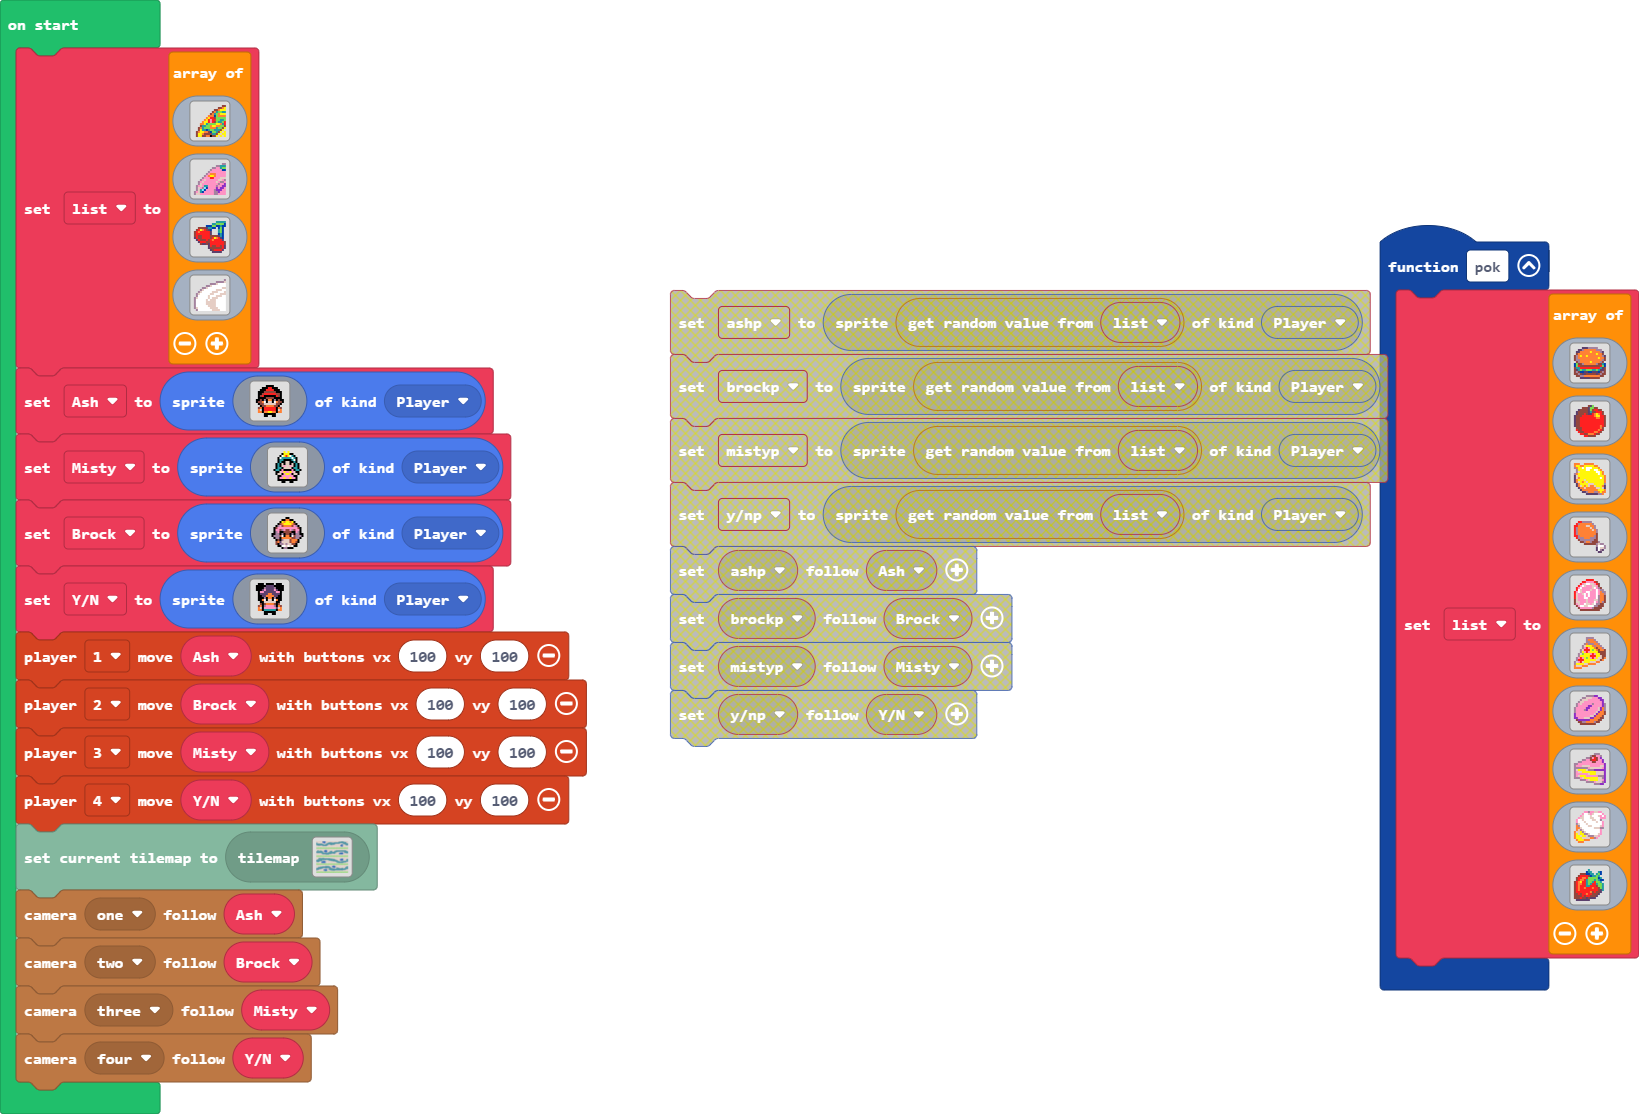
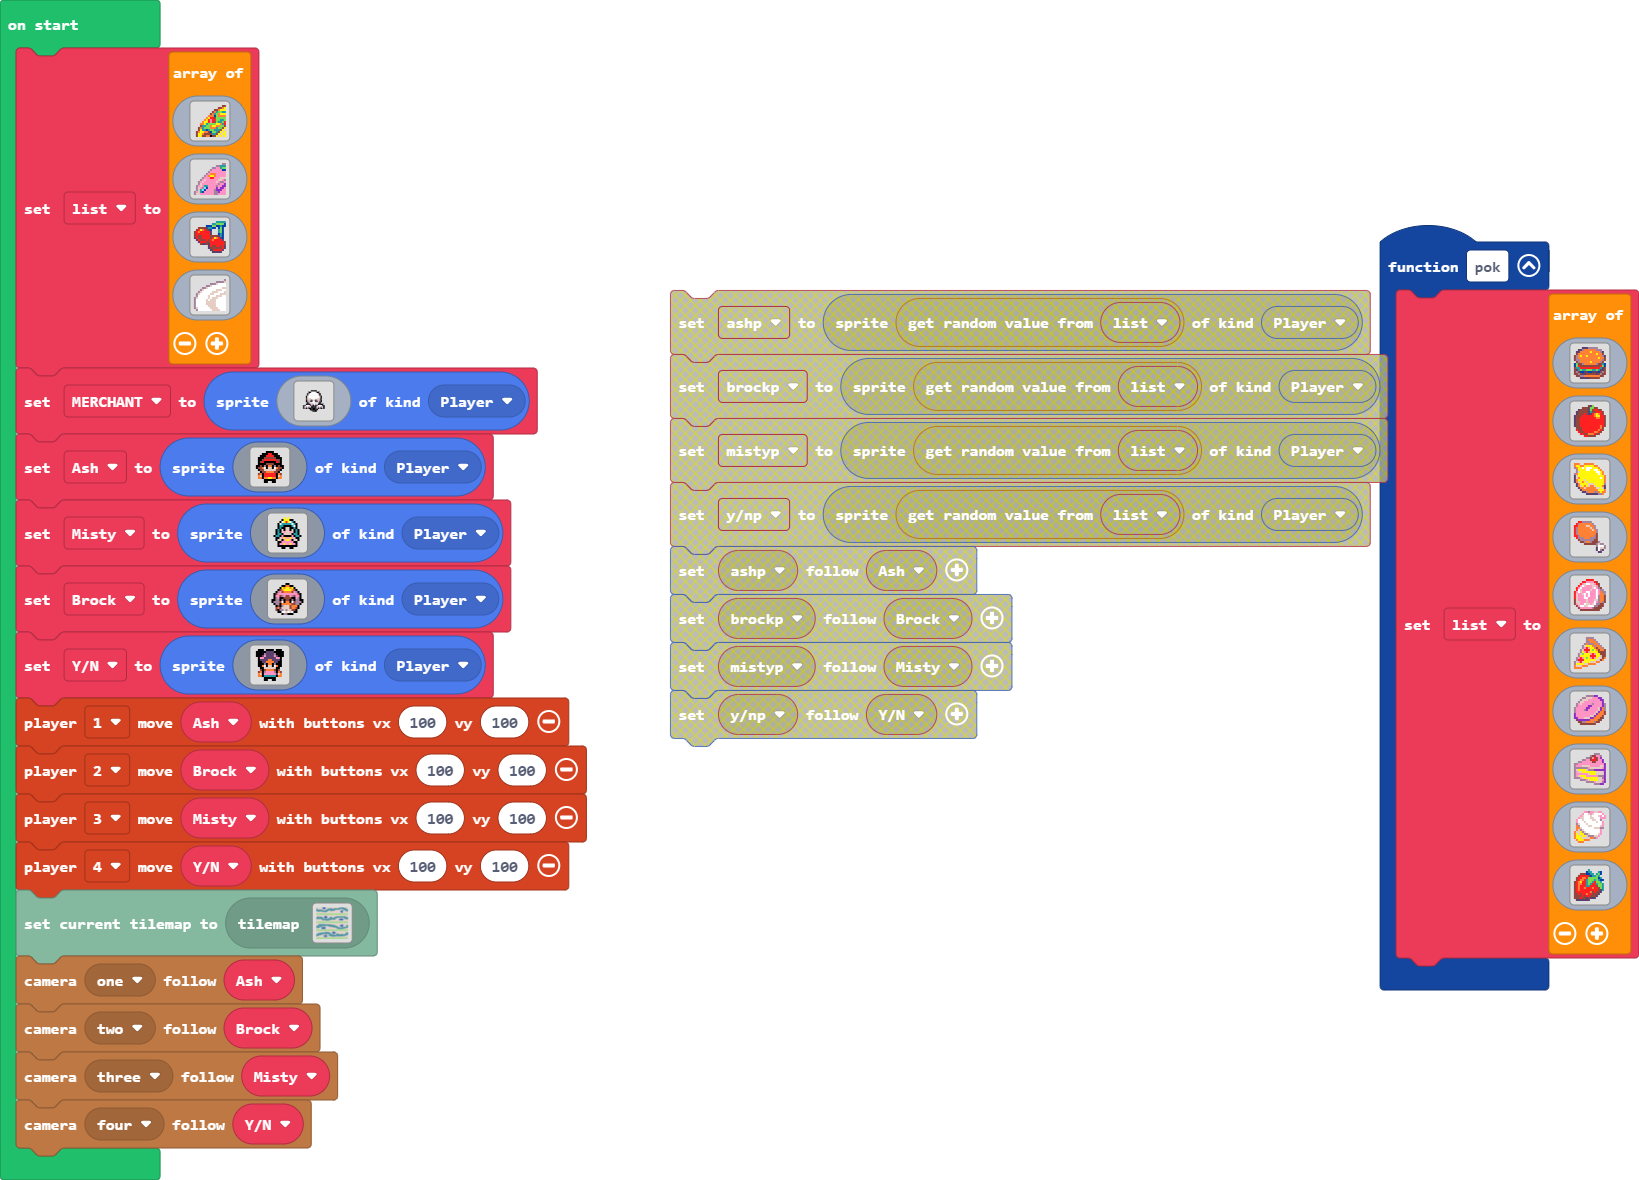
Update main.blocks, main.ts

Changed region(s): [[0.0, 0.0, 0.3734, 0.9767], [0.4045, 0.1831, 1.0, 0.9156]]

diff --git a/main.ts b/main.ts
@@ -257,6 +257,32 @@ img`
     . b 1 1 1 1 1 1 1 d d d d 1 1 1 
     `
 ]
+let MERCHANT = sprites.create(img`
+    ........................
+    ........................
+    ........................
+    ........................
+    ..........ffff..........
+    ........ff1111ff........
+    .......fb111111bf.......
+    .......f11111111f.......
+    ......fd11111111df......
+    ......fd11111111df......
+    ......fddd1111dddf......
+    ......fbdbfddfbdbf......
+    ......fcdcf11fcdcf......
+    .......fb111111bf.......
+    ......fffcdb1bdffff.....
+    ....fc111cbfbfc111cf....
+    ....f1b1b1ffff1b1b1f....
+    ....fbfbffffffbfbfbf....
+    .........ffffff.........
+    ...........fff..........
+    ........................
+    ........................
+    ........................
+    ........................
+    `, SpriteKind.Player)
 let Ash = sprites.create(img`
     . . . . . . f f f f . . . . . . 
     . . . . f f f 2 2 f f f . . . . 
